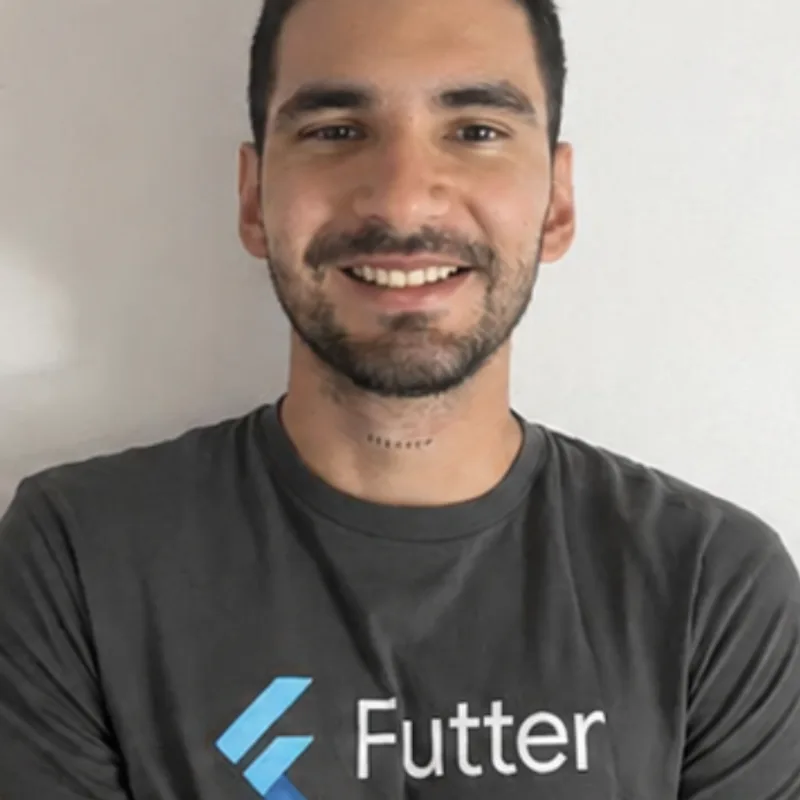
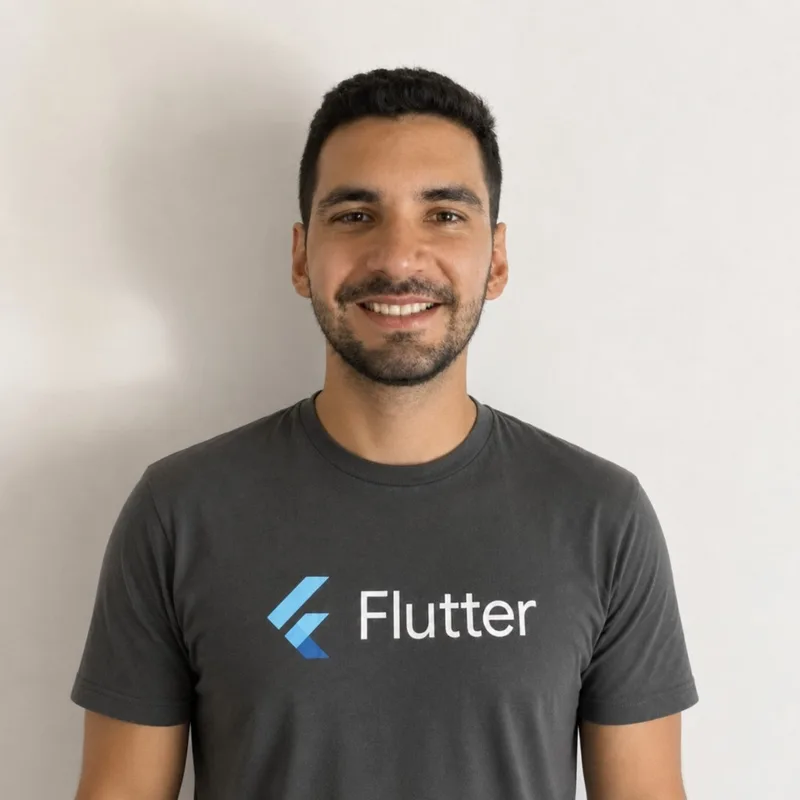
content(meetups): add the third OpenClaw Moltys talk and refresh both bodies
Alejandro E. Rendón's session on using OpenClaw in day-to-day personal
workflows joins the April 11 Moltys meetup. Both the Spanish and English bodies
move from a narrative summary of who presented to an explicit numbered talk
list, so the two stay in step and the `.md` twins resolve all three speakers.

Also swaps Alejandro's placeholder avatar for a real portrait and refreshes
Juan Diego Campuzano's.

diff --git a/src/content/meetups/2026-04-11_openclaw-moltys-utp.md b/src/content/meetups/2026-04-11_openclaw-moltys-utp.md
@@ -25,9 +25,11 @@ verticals:
 talks:
   - openclaw-moltys-utp--1-sergio-florez-session
   - openclaw-moltys-utp--2-sebastian-franco-session
+  - openclaw-moltys-utp--3-alejandro-rendon-session
 speakers:
   - sergio-florez
   - sebastian-franco
+  - alejandro-rendon
 sponsors:
   - slug: cursor
     tier: community
@@ -86,9 +88,11 @@ Un meetup Moltys se reconoce de lejos: el salón se llena de tenazas rojas de la
 
 No era un deck largo frente a una audiencia en silencio. El formato Moltys abre espacio para que la comunidad comparta configuraciones, experimentos y conexiones raras — y útiles — entre agentes, mensajería y herramientas. Se aprende más de diez proyectos reales en la sala que del mejor slide.
 
-### Lo que pusimos sobre la mesa
+### Charlas
 
-Sergio Flórez enmarcó la mañana: de dónde sale OpenClaw, para qué lo usa la gente en la práctica, y cómo se arma por dentro. En el tablero quedó el dibujo que resume gran parte del sistema — agente, OpenClaw, gateway hacia Telegram, WhatsApp y Slack, y el lado de herramientas (APIs, skills, MCP, shells). Sebastián Franco también estuvo entre quienes presentaron; otras personas de la sala seguirán documentándose en este registro a medida que confirmemos nombres y charlas.
+1. **OpenClaw desde cero: historia, cómo funciona y casos de uso** — Sergio Flórez. Qué es OpenClaw, de dónde sale, cómo encaja el modelo agente + gateway + herramientas, y para qué lo usa la gente en la práctica.
+2. **Dentro de OpenClaw: detalles técnicos, prueba en campo y lecciones** — Sebastián Franco. Arquitectura por dentro, lo que aparece al probarlo de verdad, y las fricciones que solo se ven fuera del happy path.
+3. **OpenClaw en lo personal: flujos reales del día a día** — Alejandro E. Rendón. Cómo ha usado OpenClaw a nivel personal: configuraciones que se quedaron y workflows que ya no son demo.
 
 La arquitectura importa, pero el punto del meetup es el salón: preguntas que solo salen de quien ya se pegó con una pared, trucos que no llegan a la documentación, y un ida y vuelta entre quienes están construyendo agentes en su propia máquina.
 

diff --git a/src/content/talks/openclaw-moltys-utp--1-sergio-florez-session.md b/src/content/talks/openclaw-moltys-utp--1-sergio-florez-session.md
@@ -1,10 +1,18 @@
 ---
 title:
-  en: "OpenClaw and agents in practice"
-  es: "OpenClaw y agentes en la práctica"
+  en: "OpenClaw from scratch: history, how it works, and use cases"
+  es: "OpenClaw desde cero: historia, cómo funciona y casos de uso"
 abstract:
-  en: "Talk by Sergio Alexander Flórez at the Pereira Tech Talks meetup “OpenClaw Moltys at UTP”."
-  es: "Charla de Sergio Alexander Flórez en el meetup «OpenClaw Moltys en la UTP» de Pereira Tech Talks."
+  en: >-
+    What is OpenClaw, where does it come from, and what is it actually useful for?
+    Sergio frames the morning with the history of the project, how the agent +
+    gateway + tools model fits together, and the practical use cases that show up
+    when people start connecting messaging apps, APIs, skills, and local tooling.
+  es: >-
+    ¿Qué es OpenClaw, de dónde sale y para qué sirve de verdad? Sergio enmarca la
+    mañana con la historia del proyecto, cómo encaja el modelo de agente + gateway
+    + herramientas, y los casos de uso prácticos que aparecen cuando la gente
+    empieza a conectar mensajería, APIs, skills y tooling local.
 speakers:
   - sergio-florez
 date: 2026-04-11
@@ -14,10 +22,13 @@ event:
 language: es
 duration: 25
 type: talk
-tags: []
+tags:
+  - ai
+  - agents
+  - openclaw
 status: recorded
 ---
 
-## OpenClaw y agentes en la práctica
+## OpenClaw desde cero: historia, cómo funciona y casos de uso
 
-Charla de Sergio Alexander Flórez en el meetup «OpenClaw Moltys en la UTP» de Pereira Tech Talks.
+¿Qué es OpenClaw, de dónde sale y para qué sirve de verdad? Sergio enmarca la mañana con la historia del proyecto, cómo encaja el modelo de agente + gateway + herramientas, y los casos de uso prácticos que aparecen cuando la gente empieza a conectar mensajería, APIs, skills y tooling local.

diff --git a/src/content/talks/openclaw-moltys-utp--2-sebastian-franco-session.md b/src/content/talks/openclaw-moltys-utp--2-sebastian-franco-session.md
@@ -1,10 +1,17 @@
 ---
 title:
-  en: "Session at OpenClaw Moltys at UTP"
-  es: "Participación en OpenClaw Moltys en la UTP"
+  en: "Inside OpenClaw: technical details, field testing, and lessons learned"
+  es: "Dentro de OpenClaw: detalles técnicos, prueba en campo y lecciones"
 abstract:
-  en: "Talk by Sebastian Franco Gomez at the Pereira Tech Talks meetup “OpenClaw Moltys at UTP”."
-  es: "Charla de Sebastian Franco Gomez en el meetup «OpenClaw Moltys en la UTP» de Pereira Tech Talks."
+  en: >-
+    Sebastián goes under the hood: technical details of how OpenClaw hangs
+    together, what showed up when he put it through real tests, and the use cases
+    — and friction points — that only appear once you leave the happy path and
+    run agents against your own stack.
+  es: >-
+    Sebastián baja al detalle: cómo está armado OpenClaw por dentro, qué apareció
+    cuando lo puso a prueba de verdad, y los casos de uso —y fricciones— que solo
+    se ven cuando sales del happy path y corres agentes contra tu propio stack.
 speakers:
   - sebastian-franco
 date: 2026-04-11
@@ -14,10 +21,13 @@ event:
 language: es
 duration: 25
 type: talk
-tags: []
+tags:
+  - ai
+  - agents
+  - openclaw
 status: recorded
 ---
 
-## Participación en OpenClaw Moltys en la UTP
+## Dentro de OpenClaw: detalles técnicos, prueba en campo y lecciones
 
-Charla de Sebastian Franco Gomez en el meetup «OpenClaw Moltys en la UTP» de Pereira Tech Talks.
+Sebastián baja al detalle: cómo está armado OpenClaw por dentro, qué apareció cuando lo puso a prueba de verdad, y los casos de uso —y fricciones— que solo se ven cuando sales del happy path y corres agentes contra tu propio stack.

diff --git a/src/content/meetups/2026-04-11_openclaw-moltys-utp.en.md b/src/content/meetups/2026-04-11_openclaw-moltys-utp.en.md
@@ -11,14 +11,17 @@ room for the community to share configurations, experiments, and the odd — and
 useful — connections between agents, messaging, and tooling. Ten real projects in
 the room teach you more than the best slide.
 
-### What we put on the table
+### Talks
 
-Sergio Flórez framed the morning: where OpenClaw comes from, what people actually
-use it for, and how it fits together underneath. The whiteboard ended up with the
-drawing that captures most of the system — agent, OpenClaw, a gateway out to
-Telegram, WhatsApp, and Slack, and the tooling side (APIs, skills, MCP, shells).
-Sebastián Franco was also among those who presented; other people from the room
-will keep being documented in this record as we confirm names and talks.
+1. **OpenClaw from scratch: history, how it works, and use cases** — Sergio Flórez.
+   What OpenClaw is, where it comes from, how the agent + gateway + tools model
+   fits together, and what people actually use it for.
+2. **Inside OpenClaw: technical details, field testing, and lessons learned** —
+   Sebastián Franco. Under-the-hood architecture, what showed up in real tests,
+   and the friction that only appears off the happy path.
+3. **OpenClaw in personal life: real workflows from day-to-day use** —
+   Alejandro E. Rendón. How he has used OpenClaw personally: setups that stuck
+   and workflows that are no longer a demo.
 
 The architecture matters, but the point of the meetup is the room: questions that
 only come from someone who has already hit the wall, tricks that never make it

diff --git a/src/content/talks/openclaw-moltys-utp--3-alejandro-rendon-session.md b/src/content/talks/openclaw-moltys-utp--3-alejandro-rendon-session.md
@@ -1,0 +1,32 @@
+---
+title:
+  en: "OpenClaw in personal life: real workflows from day-to-day use"
+  es: "OpenClaw en lo personal: flujos reales del día a día"
+abstract:
+  en: >-
+    Alejandro shares how he has used OpenClaw personally: concrete workflows,
+    the setups that stuck, and what changes when an agent stops being a demo and
+    becomes part of how you get things done every day.
+  es: >-
+    Alejandro comparte cómo ha usado OpenClaw a nivel personal: flujos concretos,
+    las configuraciones que sí se quedaron, y qué cambia cuando un agente deja de
+    ser una demo y pasa a formar parte de cómo sacas las cosas adelante cada día.
+speakers:
+  - alejandro-rendon
+date: 2026-04-11
+event:
+  collection: meetups
+  slug: "openclaw-moltys-utp"
+language: es
+duration: 25
+type: talk
+tags:
+  - ai
+  - agents
+  - openclaw
+status: recorded
+---
+
+## OpenClaw en lo personal: flujos reales del día a día
+
+Alejandro comparte cómo ha usado OpenClaw a nivel personal: flujos concretos, las configuraciones que sí se quedaron, y qué cambia cuando un agente deja de ser una demo y pasa a formar parte de cómo sacas las cosas adelante cada día.
